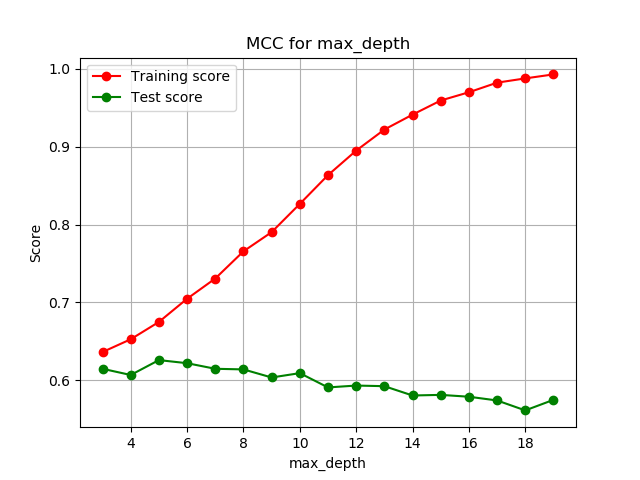
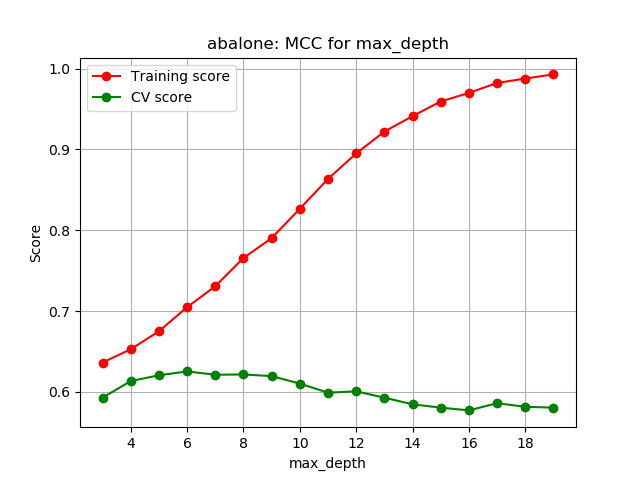
Switch MCC to cv scores, add final test score printout

diff --git a/a1-supervised-learning/decision_tree.py b/a1-supervised-learning/decision_tree.py
@@ -1,12 +1,13 @@
 import numpy as np
 import pandas as pd
 from sklearn.tree import DecisionTreeClassifier
+from sklearn.model_selection import cross_val_score
 import matplotlib.pyplot as plt
 
 import dataset_processing as data_proc
 
-def model_complexity_curve(X_train, X_test, y_train, y_test, hp, hp_vals, cv=None):
-    df = pd.DataFrame(index=hp_vals, columns=['train', 'test'])
+def model_complexity_curve(X_train, y_train, hp, hp_vals, cv=None):
+    df = pd.DataFrame(index=hp_vals, columns=['train', 'cv'])
 
     for hp_val in hp_vals:
         kwargs = {
@@ -20,15 +21,11 @@ def model_complexity_curve(X_train, X_test, y_train, y_test, hp, hp_vals, cv=Non
         train_score = dtclf.score(X_train, y_train)
 
         # get cv scores
-        # cross_vals = np.mean(cross_val_score(dtclf, X_train, y_train, cv=cv))
-        # cv_mean = np.mean(cross_vals)
-
-        # test data
-        test_score = dtclf.score(X_test, y_test)
+        cross_vals = cross_val_score(dtclf, X_train, y_train, cv=cv)
+        cv_mean = np.mean(cross_vals)
 
         df.loc[hp_val, 'train'] = train_score
-        # df.loc[hp_val, 'cv'] = cv_mean
-        df.loc[hp_val, 'test'] = test_score
+        df.loc[hp_val, 'cv'] = cv_mean
         # df.loc[hp_val, 'train_time'] = train_time
         # df.loc[hp_val, 'cv_time'] = cv_time
 
@@ -39,12 +36,12 @@ def run_experiment(dataset_name, X_train, X_test, y_train, y_test, verbose=False
     # calculate model complexity scores for max_depth
     hp = 'max_depth'
     hp_vals = np.arange(3, 20)
-    max_depth_mc = model_complexity_curve(X_train, X_test, y_train, y_test, hp, hp_vals, cv=data_proc.CV_VAL)
-    max_depth_hp = max_depth_mc['test'].idxmax()
+    max_depth_mc = model_complexity_curve(X_train, y_train, hp, hp_vals, cv=data_proc.CV_VAL)
+    max_depth_hp = max_depth_mc['cv'].idxmax()
     if verbose: print(max_depth_mc.head(10))
     if verbose: print(max_depth_mc.idxmax())
 
-    data_proc.plot_model_complexity_charts(max_depth_mc['train'], max_depth_mc['test'], 'MCC for ' + hp, hp)
+    data_proc.plot_model_complexity_charts(max_depth_mc['train'], max_depth_mc['cv'], dataset_name + ': MCC for ' + hp, hp)
     if show_plots: plt.show()
 
     plt.savefig('dt_mcc_' + hp + '_' + dataset_name + '.png')
@@ -54,12 +51,12 @@ def run_experiment(dataset_name, X_train, X_test, y_train, y_test, verbose=False
     # calculate model complexity scores for max_features
     hp = 'max_features'
     hp_vals = np.arange(1, X_train.shape[1])
-    max_features_mc = model_complexity_curve(X_train, X_test, y_train, y_test, hp, hp_vals, cv=data_proc.CV_VAL)
-    max_features_hp = max_features_mc['test'].idxmax()
+    max_features_mc = model_complexity_curve(X_train, y_train, hp, hp_vals, cv=data_proc.CV_VAL)
+    max_features_hp = max_features_mc['cv'].idxmax()
     if verbose: print(max_features_mc.head(10))
     if verbose: print(max_features_mc.idxmax())
 
-    data_proc.plot_model_complexity_charts(max_features_mc['train'], max_features_mc['test'], 'MCC for ' + hp, hp)
+    data_proc.plot_model_complexity_charts(max_features_mc['train'], max_features_mc['cv'], dataset_name + ': MCC for ' + hp, hp)
     if show_plots: plt.show()
 
     plt.savefig('dt_mcc_' + hp + '_' + dataset_name + '.png')
@@ -71,12 +68,15 @@ def run_experiment(dataset_name, X_train, X_test, y_train, y_test, verbose=False
 
     # calculate and print learning curves
     train_sizes = np.linspace(0.1, 0.9, 9)
-    data_proc.plot_learning_curve(dtclf, 'Learning Curves', X_train, y_train, cv=data_proc.CV_VAL, train_sizes=train_sizes)
+    data_proc.plot_learning_curve(dtclf, dataset_name + ': learning curves', X_train, y_train, cv=data_proc.CV_VAL, train_sizes=train_sizes)
     if show_plots: plt.show()
 
     plt.savefig('dt_lc_' + dataset_name + '.png')
     plt.clf()
     plt.close()
+
+    test_scores = data_proc.model_test_score(dtclf, X_test, y_test)
+    print("Model scores on validation set for " + dataset_name + ": ", test_scores)
 
 
 def abalone(verbose=False, show_plots=False):
@@ -102,5 +102,5 @@ def online_shopping(verbose=False, show_plots=False):
 
 
 if __name__ == "__main__":
-    # abalone(verbose=False, show_plots=False)
-    online_shopping(verbose=True, show_plots=False)
+    abalone(verbose=False, show_plots=False)
+    online_shopping(verbose=False, show_plots=False)

diff --git a/a1-supervised-learning/dataset_processing.py b/a1-supervised-learning/dataset_processing.py
@@ -44,7 +44,6 @@ def process_abalone(df):
 
 
 def process_online_shopping(df):
-    print(df.info())
     X = df.iloc[:, :-1]
     y = df.iloc[:, -1]
 
@@ -167,7 +166,7 @@ def train_times(estimator, X, y, train_sizes, cv=None):
 
         # get cv time
         cv_t0 = time()
-        cross_vals = np.mean(cross_val_score(estimator, X_train, y_train, cv=CV_VAL))
+        cross_vals = cross_val_score(estimator, X_train, y_train, cv=CV_VAL)
         cv_time = time() - cv_t0
 
         train_times_df.loc[train_size, 'train_time'] = train_time
@@ -188,7 +187,11 @@ def plot_model_complexity_charts(train_scores, test_scores, title, hp_name, ylim
     plt.plot(train_scores, 'o-', color="r",
              label="Training score")
     plt.plot(test_scores, 'o-', color="g",
-             label="Test score")
+             label="CV score")
     plt.legend(loc='best')
 
     return plt
+
+
+def model_test_score(estimator, X_test, y_test):
+    return estimator.score(X_test, y_test)
